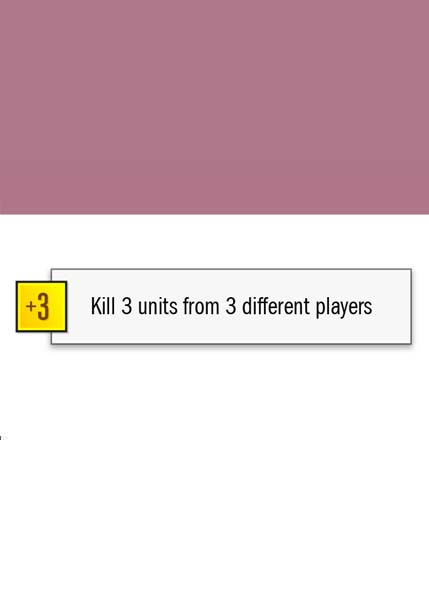
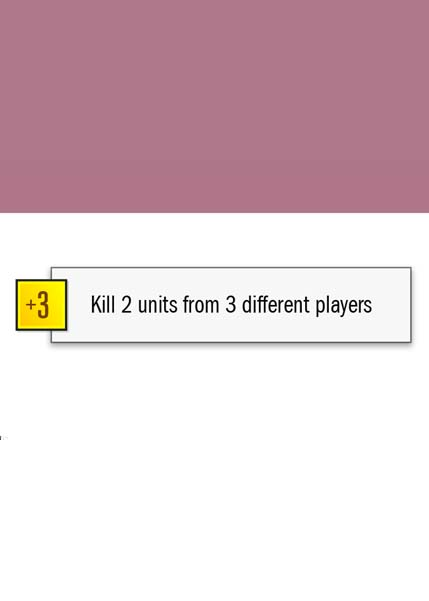
Tweak Spiders: Make ultra-mega plan more reasonable

diff --git a/server/classes/factions/plans/spidersPlans.js b/server/classes/factions/plans/spidersPlans.js
@@ -56,7 +56,7 @@ let obj = [
         objectives : [
             {
                 requirements : [
-                    { test : 'killsByPlayer', args : [3,3] },
+                    { test : 'killsByPlayer', args : [2,3] },
                 ],
                 value : 3
             },
